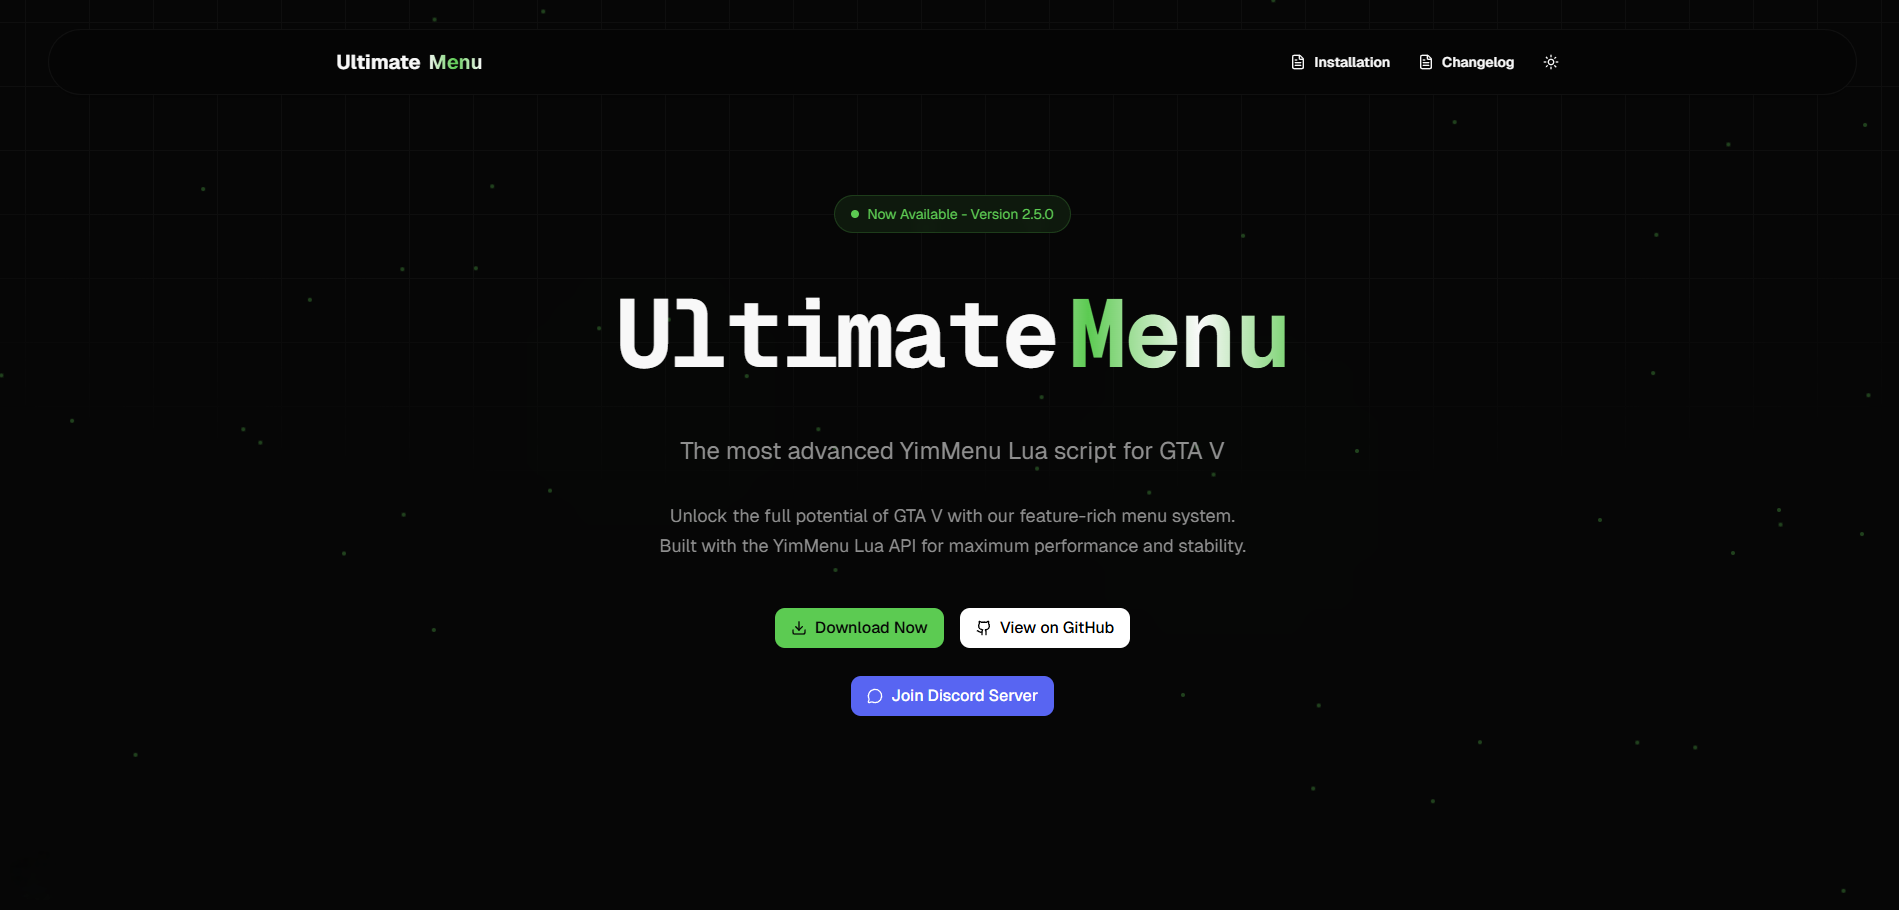
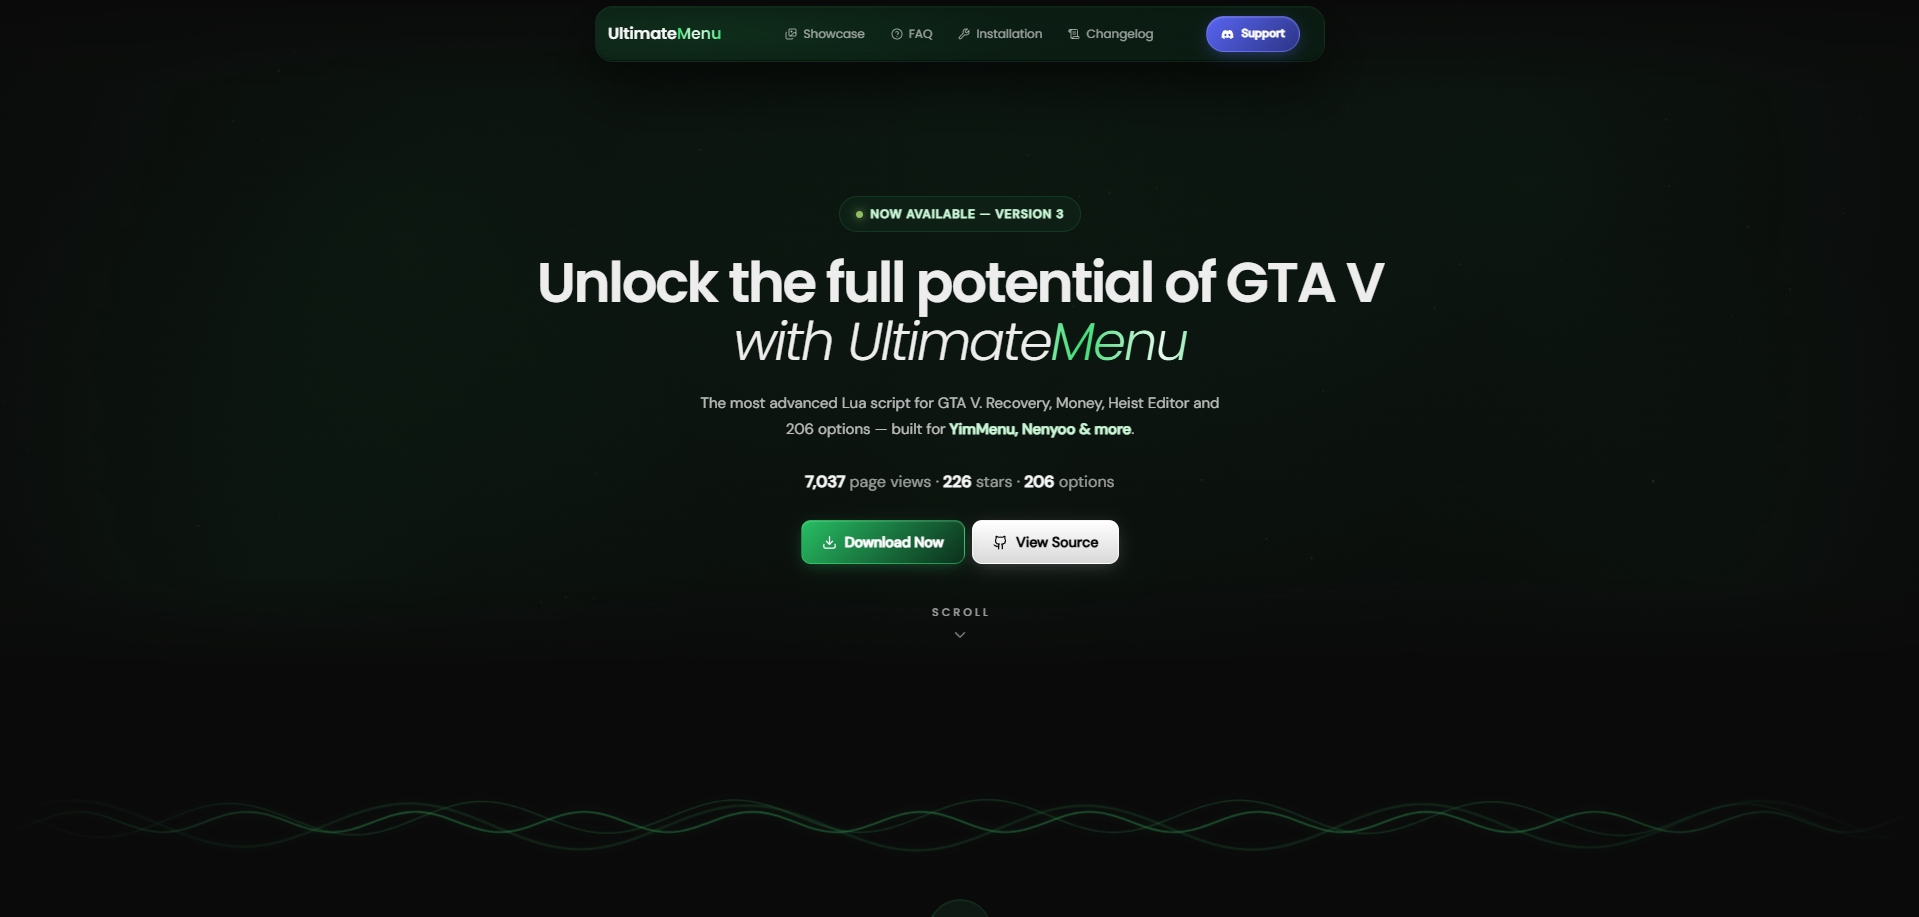
updated images and readme

diff --git a/README.md b/README.md
@@ -1,7 +1,7 @@
 # UltimateMenu Showcase Website
 
-
+![UltimateMenu Script](/public/UltimateMenu.png)
 
 ---
 
-**© 2025 UltimateMenu** | Built with Next.js, React, and TypeScript
+**© 2026 UltimateMenu** | Built with Next.js, React, and TypeScript
